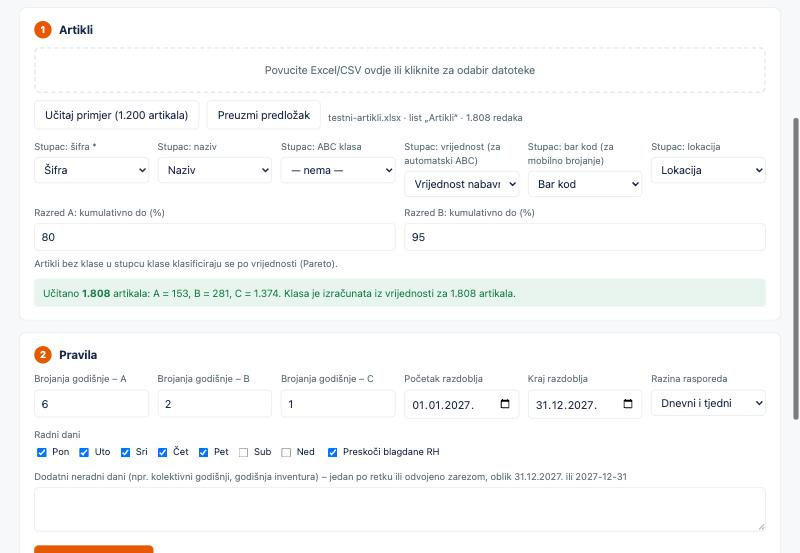
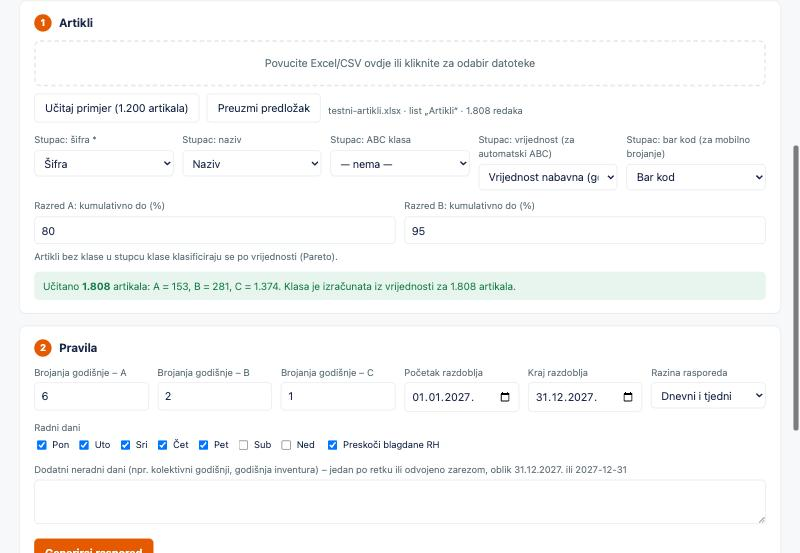
Uklonjene lokacije iz aplikacija, upute i ekrana (za sada bez brojanja po lokacijama)

diff --git a/brojanje.html b/brojanje.html
@@ -175,14 +175,14 @@ $('file').onchange=async()=>{
     const aoa=XLSX.utils.sheet_to_json(wb.Sheets[sn],{header:1,defval:'',raw:true});
     const H=aoa[0].map(norm), col=(...ks)=>{for(const k of ks){const i=H.indexOf(k);if(i>=0)return i}return -1};
     const weekly=sn==='Tjedni raspored', hasDay=weekly&&col('predlozenidan')>=0;
-    const c={d:weekly?(hasDay?col('predlozenidan'):col('od')):col('datum'),e:weekly&&!hasDay?col('do'):-1,w:weekly?col('tjedan'):-1,s:col('sifra'),n:col('naziv'),k:col('klasa'),b:col('brojanje'),bar:col('barkod'),l:col('lokacija')};
+    const c={d:weekly?(hasDay?col('predlozenidan'):col('od')):col('datum'),e:weekly&&!hasDay?col('do'):-1,w:weekly?col('tjedan'):-1,s:col('sifra'),n:col('naziv'),k:col('klasa'),b:col('brojanje'),bar:col('barkod')};
     if(c.d<0||c.s<0) throw new Error('Nedostaje stupac „Datum" ili „Šifra".');
     const plan=[], bad=0;
     for(const r of aoa.slice(1)){
       const sifra=String(r[c.s]??'').trim(); if(!sifra)continue;
       const d=toISO(r[c.d]); if(!d)continue;
       const br=String(r[c.b]??'').split('/');
-      plan.push({d,e:c.e>=0?toISO(r[c.e]):'',w:c.w>=0?String(r[c.w]??''):'',s:sifra,n:c.n>=0?String(r[c.n]??''):'',k:c.k>=0?String(r[c.k]??''):'',i:+br[0]||'',o:+br[1]||'',bar:c.bar>=0?String(r[c.bar]??'').trim():'',l:c.l>=0?String(r[c.l]??'').trim():''});
+      plan.push({d,e:c.e>=0?toISO(r[c.e]):'',w:c.w>=0?String(r[c.w]??''):'',s:sifra,n:c.n>=0?String(r[c.n]??''):'',k:c.k>=0?String(r[c.k]??''):'',i:+br[0]||'',o:+br[1]||'',bar:c.bar>=0?String(r[c.bar]??'').trim():''});
     }
     if(!plan.length) throw new Error('Plan je prazan.');
     S.plan=plan; S.file=f.name; S.date=''; save(); init();
@@ -226,9 +226,9 @@ $('q').onkeydown=e=>{if(e.key==='Enter'){e.preventDefault();lookup($('q').value)
 const isPast=r=>(r.e||r.d)<todayISO();
 const backlog=()=>S.plan.filter(r=>isPast(r)&&!S.counts[key(r.d,r.s)]);
 function dayItems(){
-  if(showBL) return backlog().sort((x,y)=>x.d.localeCompare(y.d)||(x.l||'~').localeCompare(y.l||'~','hr',{numeric:true}));
+  if(showBL) return backlog().sort((x,y)=>x.d.localeCompare(y.d));
   const a=S.plan.filter(r=>r.d===S.date);
-  return a.some(r=>r.l)?a.slice().sort((x,y)=>(x.l||'~').localeCompare(y.l||'~','hr',{numeric:true})):a;
+  return a;
 }
 function render(){
   const items=dayItems(), q=$('q').value.trim().toLowerCase();
@@ -241,10 +241,10 @@ function render(){
   $('prog').style.width=(showBL?0:(items.length?done/items.length*100:0))+'%';
   $('progTxt').textContent=showBL?`Brojite zaostatke; svaki se bilježi pod svojim izvornim ${per?'tjednom':'datumom'}`:`Prebrojano ${done} od ${items.length}`+(ex?` · izvan popisa: ${ex}`:'');
   let rows=items.filter(r=>{const c=S.counts[key(r.d,r.s)];return filter==='all'||(filter==='done'?c:!c)});
-  if(q) rows=rows.filter(r=>(r.s+' '+r.n+' '+r.bar+' '+r.l).toLowerCase().includes(q));
+  if(q) rows=rows.filter(r=>(r.s+' '+r.n+' '+r.bar).toLowerCase().includes(q));
   navList=rows;
   $('list').innerHTML=rows.map(r=>{const c=S.counts[key(r.d,r.s)];
-    return `<div class="item ${c?'done':''}" data-k="${esc(key(r.d,r.s))}"><span class="tag ${esc(r.k)}">${esc(r.k)}</span><div class="t"><b>${esc(r.n||r.s)}</b><span class="mut">${esc(r.s)}${r.l?' · '+esc(r.l):''}${showBL?' · '+esc(plabel(r)):''}</span></div><span class="q">${c?esc(fmtQ(c.qty)):'›'}</span></div>`}).join('')
+    return `<div class="item ${c?'done':''}" data-k="${esc(key(r.d,r.s))}"><span class="tag ${esc(r.k)}">${esc(r.k)}</span><div class="t"><b>${esc(r.n||r.s)}</b><span class="mut">${esc(r.s)}${showBL?' · '+esc(plabel(r)):''}</span></div><span class="q">${c?esc(fmtQ(c.qty)):'›'}</span></div>`}).join('')
     ||'<div class="mut" style="text-align:center;padding:24px">Nema stavki za prikaz.</div>';
 }
 $('list').onclick=e=>{const el=e.target.closest('.item');if(el)openCount(S.plan.find(r=>key(r.d,r.s)===el.dataset.k))};
@@ -265,7 +265,7 @@ function lookup(code){
 function openCount(r){
   cur={r,extra:null}; const c=S.counts[key(r.d,r.s)];
   $('cName').textContent=r.n||r.s;
-  $('cMeta').textContent=[r.s,r.bar&&('bar kod '+r.bar),r.l&&('lokacija '+r.l),showBL&&plabel(r),r.i&&('brojanje '+r.i+'/'+r.o),'razred '+r.k].filter(Boolean).join(' · ');
+  $('cMeta').textContent=[r.s,r.bar&&('bar kod '+r.bar),showBL&&plabel(r),r.i&&('brojanje '+r.i+'/'+r.o),'razred '+r.k].filter(Boolean).join(' · ');
   $('cQty').value=c?fmtQ(c.qty):''; $('cNote').value=c?c.note:''; $('cMsg').innerHTML=c?`<div class="msg warn">Već prebrojano: <b>${esc(fmtQ(c.qty))}</b> (${esc(new Date(c.ts).toLocaleTimeString('hr',{hour:'2-digit',minute:'2-digit'}))}). Spremanjem se količina mijenja, a „Poništi" briše brojanje.</div>`:'';
   $('cClear').classList.toggle('hide',!c); $('cSaveScan').classList.toggle('hide',!hasCam());
   const ni=navList.findIndex(x=>key(x.d,x.s)===key(r.d,r.s)); $('cNav').classList.toggle('hide',ni<0); $('cSaveNext').classList.remove('hide'); $('cPos').textContent=ni<0?'':(ni+1)+' / '+navList.length;
@@ -351,11 +351,11 @@ $('scan').onclick=startScan; $('camClose').onclick=stopScan;
 
 // ---------- izvoz ----------
 function exportRows(scope){
-  const mk=(r,c,status)=>({Datum:r.e?plabel(r):hrDate(r.d).slice(0,-1),'Šifra':r.s,'Bar kod':r.bar,Naziv:r.n,Klasa:r.k,Lokacija:r.l,'Pronađena količina':c?c.qty:'',Napomena:c?c.note:'',Vrijeme:c?c.ts.replace('T',' ').slice(0,19):'',Status:status});
+  const mk=(r,c,status)=>({Datum:r.e?plabel(r):hrDate(r.d).slice(0,-1),'Šifra':r.s,'Bar kod':r.bar,Naziv:r.n,Klasa:r.k,'Pronađena količina':c?c.qty:'',Napomena:c?c.note:'',Vrijeme:c?c.ts.replace('T',' ').slice(0,19):'',Status:status});
   const days=scope==='all'?[...new Set(S.plan.map(r=>r.d))].sort():[S.date], out=[];
   for(const d of days){
     S.plan.filter(r=>r.d===d).forEach(r=>{const c=S.counts[key(r.d,r.s)]; if(scope==='all'&&!c)return; out.push(mk(r,c,c?'PREBROJANO':'NIJE PREBROJANO'))});
-    S.extras.filter(x=>x.d===d).forEach(x=>out.push({Datum:dlabel(d).replace(/\.$/,''),'Šifra':x.s||x.code,'Bar kod':x.code,Naziv:x.n,Klasa:'',Lokacija:'','Pronađena količina':x.qty,Napomena:x.note,Vrijeme:x.ts.replace('T',' ').slice(0,19),Status:'IZVAN POPISA'}));
+    S.extras.filter(x=>x.d===d).forEach(x=>out.push({Datum:dlabel(d).replace(/\.$/,''),'Šifra':x.s||x.code,'Bar kod':x.code,Naziv:x.n,Klasa:'','Pronađena količina':x.qty,Napomena:x.note,Vrijeme:x.ts.replace('T',' ').slice(0,19),Status:'IZVAN POPISA'}));
   }
   return out;
 }
@@ -377,7 +377,7 @@ $('eCsv').onclick=()=>{
 };
 $('eXlsx').onclick=()=>{
   saveOpts(); const rows=exportRows($('eScope').value); if(!rows.length){toast('Nema podataka za izvoz');return}
-  const ws=XLSX.utils.json_to_sheet(rows); ws['!cols']=[12,16,16,36,7,12,18,24,20,16].map(w=>({wch:w}));
+  const ws=XLSX.utils.json_to_sheet(rows); ws['!cols']=[12,16,16,36,7,18,24,20,16].map(w=>({wch:w}));
   const wb=XLSX.utils.book_new(); XLSX.utils.book_append_sheet(wb,ws,'Brojanje');
   download(new Blob([XLSX.write(wb,{type:'array',bookType:'xlsx'})],{type:'application/octet-stream'}),fname('xlsx'));
 };

diff --git a/upute.html b/upute.html
@@ -49,9 +49,9 @@ a{color:var(--or)}
 <figure><img src="upute/01-planer-pocetak.jpg" alt="Početni zaslon planera"><figcaption>Početni zaslon: korak 1 (Artikli) i korak 2 (Pravila).</figcaption></figure>
 
 <h3><span class="n">2</span>Učitajte popis artikala</h3>
-<p>Povucite Excel ili CSV u okvir ili kliknite za odabir datoteke. Alat sam prepozna stupce <b>šifre, naziva, vrijednosti, bar koda i lokacije</b>; ako se zabuni, ispravite ih izbornicima. Ako popis nema ABC klasu, alat je izračuna iz vrijednosti (Pareto, 80 % i 95 %), a granice možete promijeniti. Za probu postoji gumb „Učitaj primjer", a „Preuzmi predložak" daje praznu tablicu.</p>
+<p>Povucite Excel ili CSV u okvir ili kliknite za odabir datoteke. Alat sam prepozna stupce <b>šifre, naziva, vrijednosti i bar koda</b>; ako se zabuni, ispravite ih izbornicima. Ako popis nema ABC klasu, alat je izračuna iz vrijednosti (Pareto, 80 % i 95 %), a granice možete promijeniti. Za probu postoji gumb „Učitaj primjer", a „Preuzmi predložak" daje praznu tablicu.</p>
 <figure><img src="upute/02-planer-ucitavanje.jpg" alt="Učitani popis i prepoznati stupci"><figcaption>Nakon učitavanja alat javlja koliko je artikala u kojem razredu.</figcaption></figure>
-<div class="tip"><b>Savjet:</b> za brojanje na mobitelu popis treba imati stupac s <b>bar kodom</b>. Lokacija je neobavezna, ali ako je imate, skladištar dobiva popis složen po lokacijama, pa ne hoda nepotrebno.</div>
+<div class="tip"><b>Savjet:</b> za skeniranje na mobitelu popis treba imati stupac s <b>bar kodom</b>. Bez njega artikle birate s popisa.</div>
 
 <h3><span class="n">3</span>Zadajte pravila</h3>
 <p>Odaberite razdoblje (zadano je jedna kalendarska godina), radne dane i hoće li se preskočiti blagdani RH. Dodatne neradne dane (kolektivni godišnji, godišnja inventura) upišete u polje ispod. <b>Razina rasporeda</b> određuje što dobivate:</p>
@@ -82,7 +82,7 @@ a{color:var(--or)}
 </div>
 
 <h3><span class="n">2</span>Otvorite popis za danas</h3>
-<p>Aplikacija sama otvori popis za današnji dan (ili tjedan, ako ste birali tjedni raspored). Padajući izbornik gore mijenja dan, a gumb „Danas" vraća na današnji. Traka pokazuje koliko je prebrojano. Popis je složen po lokacijama, a filteri „Sve / Neprebrojano / Prebrojano" pomažu da se ne preskoči ništa.</p>
+<p>Aplikacija sama otvori popis za današnji dan (ili tjedan, ako ste birali tjedni raspored). Padajući izbornik gore mijenja dan, a gumb „Danas" vraća na današnji. Traka pokazuje koliko je prebrojano. Filteri „Sve / Neprebrojano / Prebrojano" pomažu da se ne preskoči ništa.</p>
 
 <h3><span class="n">3</span>Brojite: skenirajte ili birajte s popisa</h3>
 <p>Artikl možete pronaći na tri načina: dodirom na popis, <b>kamerom</b> (gumb 📷, radi u Chromeu na Androidu) ili upisom odnosno čitačem bar koda koji radi kao tipkovnica u polje na vrhu. Otvori se prozor za upis količine.</p>
@@ -95,7 +95,7 @@ a{color:var(--or)}
 <div class="tip"><b>Slijepo brojanje:</b> aplikacija namjerno ne pokazuje stanje iz sustava. Brojač upisuje ono što vidi, a razliku računate poslije, u WMS-u ili ERP-u, gdje je stanje stvarno.</div>
 
 <h3><span class="n">4</span>Izvezite rezultat</h3>
-<p>Na kraju dana pritisnite „Izvoz". Birate dan ili sve dane, <b>CSV</b> (separator i decimalni znak prema vašem sustavu) ili <b>Excel</b>. Izvoz ima stupce: datum, šifra, bar kod, naziv, klasa, lokacija, pronađena količina, napomena, vrijeme i status (prebrojano, nije prebrojano, izvan popisa). Datoteku ručno ili poluautomatski prenosite u WMS ili ERP.</p>
+<p>Na kraju dana pritisnite „Izvoz". Birate dan ili sve dane, <b>CSV</b> (separator i decimalni znak prema vašem sustavu) ili <b>Excel</b>. Izvoz ima stupce: datum, šifra, bar kod, naziv, klasa, pronađena količina, napomena, vrijeme i status (prebrojano, nije prebrojano, izvan popisa). Datoteku ručno ili poluautomatski prenosite u WMS ili ERP.</p>
 <figure class="phone"><img src="upute/09-brojanje-izvoz.jpg" alt="Izvoz brojanja"><figcaption>Izvoz u CSV ili Excel.</figcaption></figure>
 
 <h2>Česta pitanja</h2>
@@ -110,7 +110,7 @@ a{color:var(--or)}
 <p>Da. Kamera nije potrebna. Kad otvorite popis za taj dan, svaki artikl je na popisu: dodirnete ga, upišete količinu i pritisnete „Spremi i sljedeći" ili strelicama idete kroz popis. Možete i upisati šifru ili bar kod u polje na vrhu, ili koristiti ručni čitač koji radi kao tipkovnica.</p>
 
 <h3>Što ako skeniram krivi artikl?</h3>
-<p>Aplikacija ne može znati što ste namjeravali skenirati, pa ovisi o tome gdje je taj kod. Ako artikl <b>jest na današnjem popisu</b>, otvori se njegov prozor s nazivom i lokacijom, vi vidite da to nije on, zatvorite prozor i ništa se ne sprema. Ako je artikl u planu ali za neki <b>drugi dan</b>, javi „Nije na popisu za ovaj dan" i kaže kad je planiran. Ako je kod <b>nepoznat</b>, javi to isto, a ako ipak upišete količinu, bilježi se kao „izvan popisa". Ako ste već spremili količinu na krivi artikl, otvorite ga ponovno i pritisnite „Poništi".</p>
+<p>Aplikacija ne može znati što ste namjeravali skenirati, pa ovisi o tome gdje je taj kod. Ako artikl <b>jest na današnjem popisu</b>, otvori se njegov prozor s nazivom, vi vidite da to nije on, zatvorite prozor i ništa se ne sprema. Ako je artikl u planu ali za neki <b>drugi dan</b>, javi „Nije na popisu za ovaj dan" i kaže kad je planiran. Ako je kod <b>nepoznat</b>, javi to isto, a ako ipak upišete količinu, bilježi se kao „izvan popisa". Ako ste već spremili količinu na krivi artikl, otvorite ga ponovno i pritisnite „Poništi".</p>
 
 <h3>Što ako isti artikl skeniram dvaput?</h3>
 <p>Ništa se ne briše tiho: prozor pokaže „Već prebrojano: količina (vrijeme)". Spremanjem upisujete novu količinu, „Poništi" briše brojanje.</p>

diff --git a/ciklicka-inventura.html b/ciklicka-inventura.html
@@ -100,7 +100,6 @@ footer{color:var(--mut);font-size:13px;text-align:center;margin-top:8px}
       <div><label>Stupac: ABC klasa</label><select id="mKlasa"></select></div>
       <div><label>Stupac: vrijednost (za automatski ABC)</label><select id="mVrijednost"></select></div>
       <div><label>Stupac: bar kod (za mobilno brojanje)</label><select id="mBar"></select></div>
-      <div><label>Stupac: lokacija</label><select id="mLok"></select></div>
     </div>
     <div class="grid hide" id="abcAuto" style="margin-top:12px">
       <div><label>Razred A: kumulativno do (%)</label><input type="number" id="pA" value="80" min="1" max="99"></div>
@@ -437,17 +436,17 @@ function setData(aoa,label){
   $('fname').textContent=label+' · '+fmt(rawRows.length)+' redaka';
   const norm=s=>s.toLowerCase().normalize('NFD').replace(/[̀-ͯ]/g,'').replace(/đ/g,'d').replace(/[^a-z0-9]/g,'');
   const find=(keys,skip=[])=>{for(const k of keys){const i=headers.findIndex((h,j)=>!skip.includes(j)&&norm(h).includes(k));if(i>=0)return i}return -1};
-  const idx={Bar:find(['barkod','barcode','ean','gtin','bar']),Lok:find(['lokacij','pozicij','regal','location','bin']),Klasa:find(['klasa','abc','class','razred']),Vrijednost:find(['vrijednost','value','iznos','promet','potrosnja','trosak'])};
+  const idx={Bar:find(['barkod','barcode','ean','gtin','bar']),Klasa:find(['klasa','abc','class','razred']),Vrijednost:find(['vrijednost','value','iznos','promet','potrosnja','trosak'])};
   idx.Sifra=find(['sifra','sku','artikl','item','code','kod','id'],[idx.Bar]);
   idx.Naziv=find(['naziv','opis','name','description'],[idx.Sifra]);
   const opts=(none)=>(none?'<option value="-1">— nema —</option>':'')+headers.map((h,i)=>`<option value="${i}">${esc(h)}</option>`).join('');
-  $('mSifra').innerHTML=opts(false); ['mNaziv','mKlasa','mVrijednost','mBar','mLok'].forEach(id=>$(id).innerHTML=opts(true));
-  $('mSifra').value=idx.Sifra>=0?idx.Sifra:0; $('mNaziv').value=idx.Naziv; $('mKlasa').value=idx.Klasa; $('mVrijednost').value=idx.Vrijednost; $('mBar').value=idx.Bar; $('mLok').value=idx.Lok;
+  $('mSifra').innerHTML=opts(false); ['mNaziv','mKlasa','mVrijednost','mBar'].forEach(id=>$(id).innerHTML=opts(true));
+  $('mSifra').value=idx.Sifra>=0?idx.Sifra:0; $('mNaziv').value=idx.Naziv; $('mKlasa').value=idx.Klasa; $('mVrijednost').value=idx.Vrijednost; $('mBar').value=idx.Bar;
   $('mapping').classList.remove('hide');
   plan=null; $('resSec').classList.add('hide'); $('expSec').classList.add('hide');
   buildItems();
 }
-['mSifra','mNaziv','mKlasa','mVrijednost','mBar','mLok','pA','pB'].forEach(id=>$(id).addEventListener('change',buildItems));
+['mSifra','mNaziv','mKlasa','mVrijednost','mBar','pA','pB'].forEach(id=>$(id).addEventListener('change',buildItems));
 
 function num(v){
   if(typeof v==='number')return v;
@@ -458,7 +457,7 @@ function num(v){
 }
 
 function buildItems(){
-  const iS=+$('mSifra').value,iN=+$('mNaziv').value,iK=+$('mKlasa').value,iV=+$('mVrijednost').value,iB=+$('mBar').value,iL=+$('mLok').value;
+  const iS=+$('mSifra').value,iN=+$('mNaziv').value,iK=+$('mKlasa').value,iV=+$('mVrijednost').value,iB=+$('mBar').value;
   dropped={prazno:0,duplikat:0,klasa:0,bezVrijednosti:0};
   const seen=new Set(); items=[];
   rawRows.forEach(r=>{
@@ -468,7 +467,7 @@ function buildItems(){
     seen.add(sifra);
     let klasa='';
     if(iK>=0){const k=String(r[iK]??'').trim().toUpperCase(); if(k){ if(['A','B','C'].includes(k[0])&&k.length<=2) klasa=k[0]; else {dropped.klasa++;return} }}
-    items.push({sifra,naziv:iN>=0?String(r[iN]??'').trim():'',klasa,vrijednost:iV>=0?num(r[iV]):0,bar:iB>=0?String(r[iB]??'').trim():'',lok:iL>=0?String(r[iL]??'').trim():''});
+    items.push({sifra,naziv:iN>=0?String(r[iN]??'').trim():'',klasa,vrijednost:iV>=0?num(r[iV]):0,bar:iB>=0?String(r[iB]??'').trim():''});
   });
   const need=items.filter(i=>!i.klasa);
   const auto=need.length>0;
@@ -622,7 +621,7 @@ $('xlsx').onclick=()=>{
   wb.SheetNames.push('Sažetak'); wb.Sheets['Sažetak']=sheet(sum,[34,16,90],false,false);
 
   const blank=['',''];
-  const xc=[['Bar kod',i=>i.bar,16],['Lokacija',i=>i.lok,12]].filter(c=>its.some(i=>i[{'Bar kod':'bar','Lokacija':'lok'}[c[0]]]!==''));
+  const xc=[['Bar kod',i=>i.bar,16]].filter(c=>its.some(i=>i.bar!==''));
   const xh=xc.map(c=>c[0]), xw=xc.map(c=>c[2]), xv=i=>xc.map(c=>c[1](i));
   if(p.gran!=='week'){
     const rows=[['Datum','Dan','Tjedan','Šifra','Naziv','Klasa','Brojanje',...xh,'Prebrojano','Napomena']];
